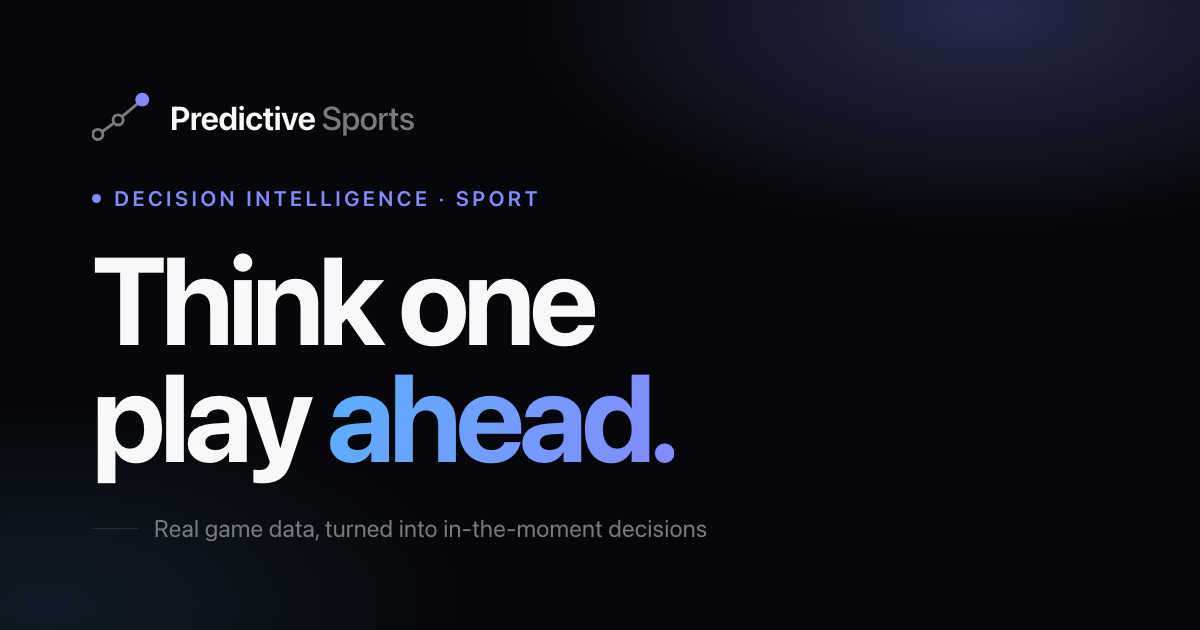
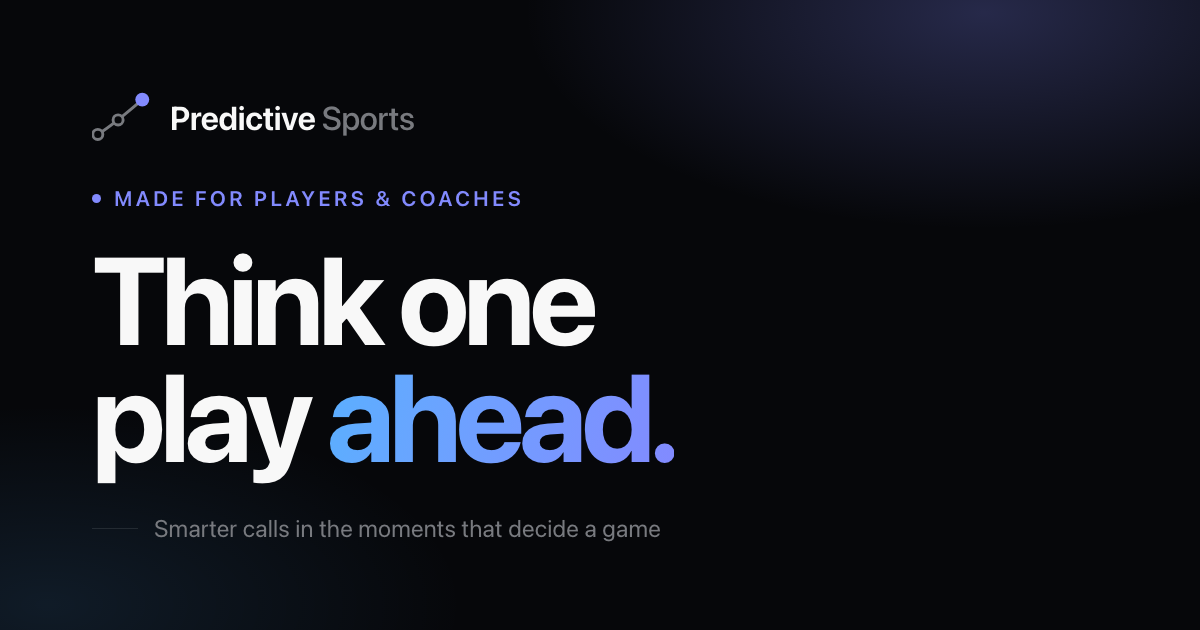
Rewrite copy in plain, human language; fix PitchIQ link + tag
- Drop buzzwords ("decision intelligence", "decision engine",
  "in-the-moment decisions", "decoded") for plain, concrete language.
- Fix contradiction: PitchIQ tag was "Flagship · Live" while status
  said "Coming soon" -> now "Our first app".
- Point PitchIQ links at the live Pages site (pitchiqs.predictivesports.io);
  the old "pitchiq" host is the Render API.
- Refresh og.png + page title/description to match the new copy.

Changed region(s): [[0.1233, 0.8143, 0.5858, 0.8746], [0.0925, 0.3016, 0.4625, 0.3317]]

diff --git a/src/app/page.tsx b/src/app/page.tsx
@@ -1,4 +1,4 @@
-const PITCHIQ_URL = "https://pitchiq.predictivesports.io";
+const PITCHIQ_URL = "https://pitchiqs.predictivesports.io";
 
 function BrandMark() {
   return (
@@ -64,7 +64,7 @@ export default function Home() {
             <div className="hero-copy">
               <span className="eyebrow">
                 <span className="tick" />
-                Decision intelligence · Sport
+                Made for players &amp; coaches
               </span>
               <h1 className="display">
                 Think one
@@ -72,13 +72,13 @@ export default function Home() {
                 play <span className="grad">ahead.</span>
               </h1>
               <p className="lead">
-                Predictive Sports builds tools that turn real game data into clear,
-                in-the-moment decisions — for the athletes and coaches who live by
-                the next play.
+                We build apps that help players and coaches make a smarter call in
+                the moments that decide a game — using real game data, not just gut
+                feel.
               </p>
               <div className="hero-cta">
                 <a className="btn-primary" href="#products">
-                  See our work
+                  See what we&apos;ve built
                   <ArrowIcon />
                 </a>
                 <a className="btn-ghost" href="#approach">
@@ -102,42 +102,42 @@ export default function Home() {
                 How we think
               </span>
               <h2 className="h2">
-                Data is only useful the
+                Data matters most in the
                 <br />
-                moment before a decision.
+                second before a decision.
               </h2>
               <p className="lead">
-                Most sports analytics tell you what already happened. We build for
-                the seconds that matter — when someone has to choose, and the right
-                read wins the moment.
+                Most sports stats tell you what already happened. We build for the
+                moment just before — when someone has to make a call, and the right
+                read changes what happens next.
               </p>
             </div>
 
             <div className="principles">
               <div className="principle">
                 <div className="pidx">01</div>
-                <h3>Read, don&apos;t report</h3>
+                <h3>Point to the call, not the chart</h3>
                 <p>
-                  Dashboards look backward. Our tools surface the one read that
-                  changes the next play — fast enough to act on, simple enough to
-                  trust.
+                  Dashboards look backward. Our apps show you the one thing that
+                  matters for the next decision — fast enough to use mid-game,
+                  simple enough to trust.
                 </p>
               </div>
               <div className="principle">
                 <div className="pidx">02</div>
-                <h3>Grounded in real games</h3>
+                <h3>Built on real games</h3>
                 <p>
-                  Every recommendation traces back to actual play-by-play data and
-                  tendencies — not a black box. Athletes see why, not just what.
+                  Every suggestion comes from actual game data and tendencies — no
+                  black box. You can always see why, not just what.
                 </p>
               </div>
               <div className="principle">
                 <div className="pidx">03</div>
-                <h3>Built for game day</h3>
+                <h3>Made for game day</h3>
                 <p>
-                  Designed with the people who use it — athletes, coaches, and
-                  analysts. If it doesn&apos;t work in the flow of the game, it
-                  doesn&apos;t ship.
+                  We design with the people who&apos;ll actually use it — players and
+                  coaches. If it doesn&apos;t hold up in a real game, we don&apos;t
+                  ship it.
                 </p>
               </div>
             </div>
@@ -156,10 +156,10 @@ export default function Home() {
                 <span className="tick" />
                 What we make
               </span>
-              <h2 className="h2">Our products.</h2>
+              <h2 className="h2">Our apps.</h2>
               <p className="lead">
-                One focused tool today, with more on the way — each built on the
-                same idea: the right call, at the right moment.
+                One app so far, with more on the way — each built on the same simple
+                idea: the right call, at the right moment.
               </p>
             </div>
 
@@ -167,12 +167,12 @@ export default function Home() {
               {/* Flagship: PitchIQ */}
               <article className="product-card flagship">
                 <div className="product-info">
-                  <span className="product-tag">Flagship · Live</span>
+                  <span className="product-tag">Our first app</span>
                   <h3 className="pname">PitchIQ</h3>
                   <p className="pdesc">
-                    Our first app — a baseball training tool that helps catchers and
-                    pitchers think one pitch ahead, reading the count, the zone, and
-                    the hitter to call the smarter pitch.
+                    PitchIQ helps catchers and pitchers think one pitch ahead —
+                    reading the count, the zone, and the hitter to call a smarter
+                    pitch.
                   </p>
                   <div className="product-meta">
                     <div className="pm">
@@ -199,14 +199,14 @@ export default function Home() {
               <div className="next-card">
                 <div className="nc-copy">
                   <span className="nc-eyebrow">In development</span>
-                  <h3>More of the game, decoded.</h3>
+                  <h3>Baseball&apos;s just the start.</h3>
                   <p>
-                    We&apos;re extending the same decision engine to new sports and
-                    new moments — wherever a split-second read changes the outcome.
-                    Want early access?
+                    We&apos;re bringing the same approach to other sports — anywhere
+                    a fast, well-judged call makes the difference. Want a look before
+                    everyone else?
                   </p>
                 </div>
-                <div className="nc-slot">[ next product — TBA ]</div>
+                <div className="nc-slot">[ next app — TBA ]</div>
               </div>
             </div>
           </div>
@@ -226,10 +226,10 @@ export default function Home() {
                 a long obsession.
               </h2>
               <p className="lead">
-                Predictive Sports is a focused team of engineers, designers, and
-                athletes building decision tools for the games we grew up on. We
-                ship slowly, listen to the people who play and coach, and care about
-                getting the call right.
+                We&apos;re a small group of engineers, designers, and former players
+                building the tools we always wished we&apos;d had. We move carefully,
+                listen to the people who actually play and coach, and sweat the
+                details that decide a game.
               </p>
             </div>
           </div>
@@ -249,8 +249,8 @@ export default function Home() {
                 Let&apos;s talk.
               </h2>
               <p className="lead">
-                Whether you want early access to what&apos;s next, a partnership, or
-                just to trade notes on the game — we read every message.
+                Want an early look, a partnership, or just to talk shop about the
+                game? We read every message.
               </p>
               <a className="contact-email" href="mailto:[email redacted]">
                 <svg
@@ -287,8 +287,8 @@ export default function Home() {
                   </span>
                 </a>
                 <p className="fdesc">
-                  Decision-intelligence tools for sport. Read the game, make the
-                  call.
+                  Apps that help players and coaches make smarter calls. Read the
+                  game, make the call.
                 </p>
               </div>
               <div className="footer-cols">

diff --git a/src/app/layout.tsx b/src/app/layout.tsx
@@ -1,9 +1,9 @@
 import type { Metadata } from "next";
 import "./globals.css";
 
-const title = "Predictive Sports — Decision intelligence for sport";
+const title = "Predictive Sports — Read the game. Make the call.";
 const description =
-  "Predictive Sports builds decision-intelligence tools that help athletes and coaches think one play ahead — grounded in real game data. Makers of PitchIQ.";
+  "Predictive Sports builds apps that help players and coaches make smarter calls in the moments that decide a game — using real game data. Makers of PitchIQ.";
 
 export const metadata: Metadata = {
   title,